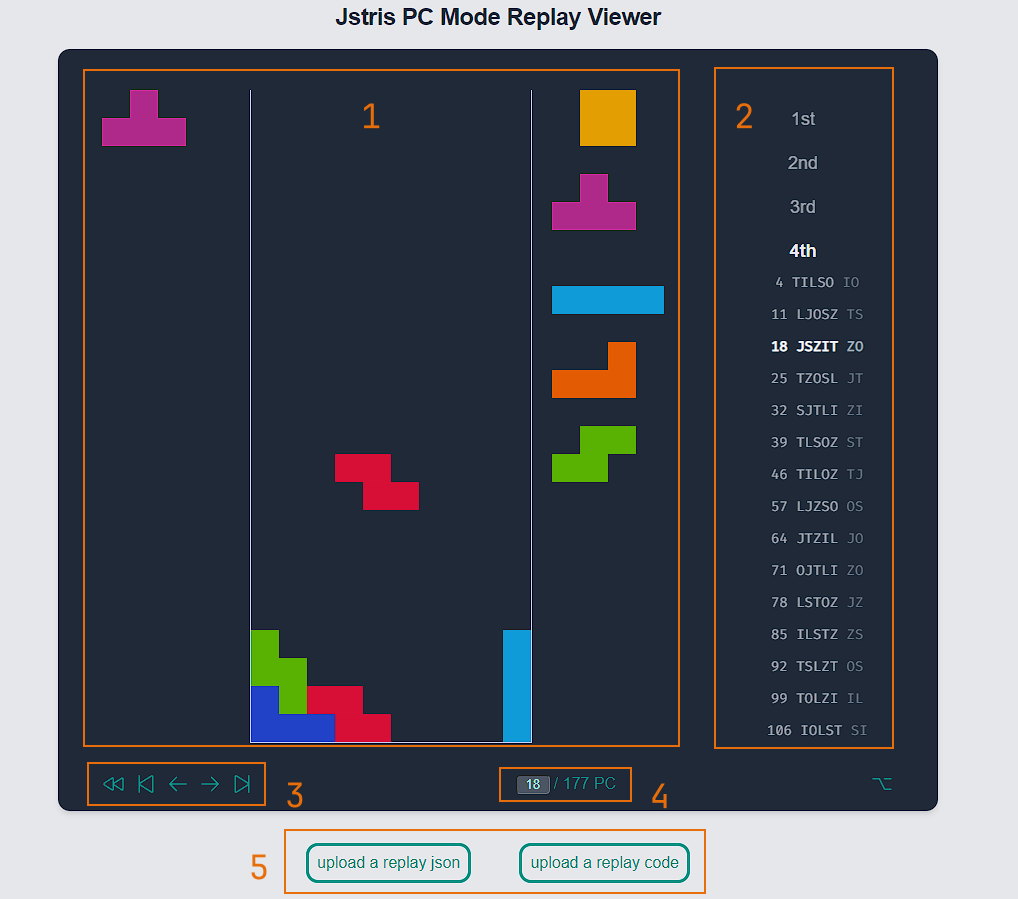
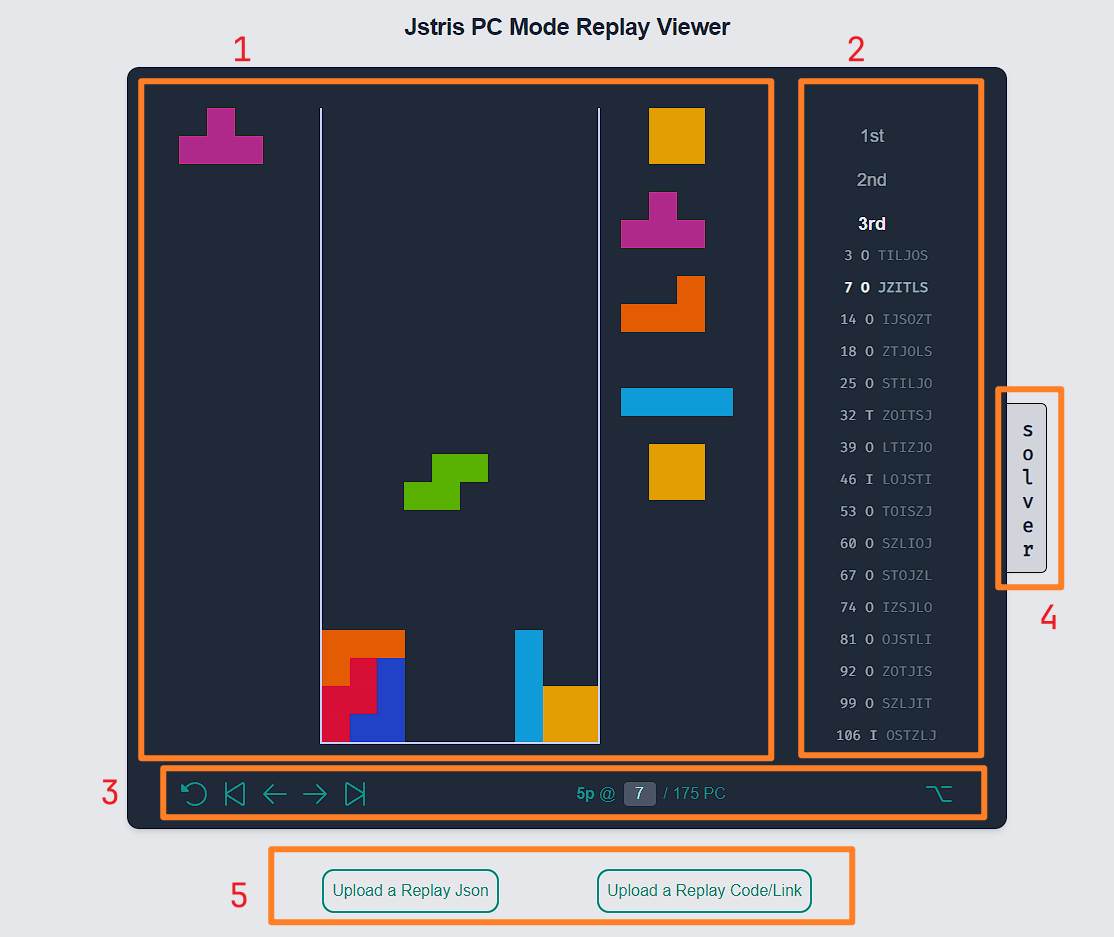
Updated READmd

Changed region(s): [[0.0305, 0.0, 0.9745, 0.9967], [0.3045, 0.4672, 0.4568, 0.5918]]

diff --git a/README.md b/README.md
@@ -1,4 +1,3 @@
-
 ### English / [简体中文](https://github.com/smdbs-smdbs/jstris-pc-mode-replay-viewer/blob/main/README.zh.md)
 
 <br/>
@@ -17,21 +16,22 @@ As shown in the above image, there are 5 major regions in the viewer:
 
 1. **Replay Region** This region shows the board, queue, and the falling piece before each piece placement.
 
-2. **Side Controls** This region categories PCs in this run to a number from 1-7 as in the [70-piece loop theory](https://docs.google.com/document/d/1udtq235q2SdoFYwMZNu-GRYR-4dCYMkp0E8_Hw1XTyg), __the current PC number__ in this replay, and the __queue__ of Tetriminos that each PC starts with. You can **click** on a specific item to jump to that PC.
+2. **Side Utilities** This region categories PCs in this run to a number from 1-7 as in the [70-piece loop theory](https://docs.google.com/document/d/1udtq235q2SdoFYwMZNu-GRYR-4dCYMkp0E8_Hw1XTyg), **the current PC number** in this replay, and the **queue** of Tetriminos that each PC starts with. You can **click** on a specific item to jump to that PC.
 
-3. **Bottom Controls** This region contains the control buttons for the replay. The button functionalities and their default key bindings are (from left to right):
+3. **Bottom Utilities** This region contains the control buttons for the replay. The button functionalities and their default key bindings are (from left to right):
 
-| Button name |        Functionality        | Key Binding |
-| :---------: | :-------------------------: | :---------: |
-|    Reset    |  **Reset** to the first PC  |      R      |
-|   Back PC   | **Back** to the previous PC |  Arrow Up   |
-| Back Piece  |   **Back** to the last piece   | Arrow Left  |
-| Next Piece  |  **Place** the next piece   | Arrow Right |
-|   Next PC   | **Forward** to the first PC | Arrow Down  |
+| Button name  |        Functionality        | Key Binding |
+| :----------: | :-------------------------: | :---------: |
+|    Reset     |  **Reset** to the first PC  |      R      |
+|   Back PC    | **Back** to the previous PC |  Arrow Up   |
+|  Back Piece  | **Back** to the last piece  | Arrow Left  |
+|  Next Piece  |  **Place** the next piece   | Arrow Right |
+|   Next PC    | **Forward** to the first PC | Arrow Down  |
+| Open Options |  **Open** the options menu  |   (None)    |
 
-> You might have noticed the button in the bottom right corner. It is supposed to open up an options menu, but it has no functionality because I don't know what should be in the options... If you have any idea, welcome to [contribute](#contribute) to this project by opening an issue.
+In the center of the bottom region is a **Page Number Controls**, it shows number of pieces placed in the current PC and the current PC Number. The input box can be used to quickly jump to a specific PC.
 
-4. **Page Number Controls** This region contains number of pieces placed in this PC and the current PC Number. It also contains an input box that you can use to quickly jump to a specific PC.
+4. **PC Utilities** This region contains links to the utilities that might be useful in analyzing a replay.
 
 5. **Upload Region** This region contains two buttons for uploading a replay to this viewer. For more specific instructions, please refer to the [Upload Replay](#upload-replay) section.
 

diff --git a/README.zh.md b/README.zh.md
@@ -27,10 +27,11 @@ Demo: [GitHub Page](https://smdbs01.github.io/jstris-pc-mode-replay-viewer/)
 |  上一块   |     **返回** 到上一块      |  左箭头  |
 |  下一块   |     **前进** 到下一块      |  右箭头  |
 | 下一个 PC |    **前进** 到下一个 PC    |  下箭头  |
+| 打开设置  |     **打开** 设置菜单      |   (无)   |
 
-> 你应该能发现界面右下角的菜单按钮。它应该是用来打开设置菜单的，但因为我不知道需要设置什么，所以现在点它应该没有作用。如果你有任何想法，欢迎为项目中[提交](#贡献)一个 issue。
+在底部中央是一个 **页码跳转器**，它显示当前 PC 中已经放下的块数以及当前的 PC 数。你可以用输入框快速跳转到指定的 PC。
 
-4. **页面跳转区** ~~(我也不知道要叫什么)~~ 显示当前 PC 放置的块数以及 PC 数，你也可以用输入框快速跳转到想要看的 PC 数。
+4. **PC 工具区** 这个区域包含了一些可能有用的外部工具的链接。
 
 5. **上传区** 这个区域包含两个上传按钮。关于更多细节，请参考下面的 [上传回放](#上传回放) 部分.
 
